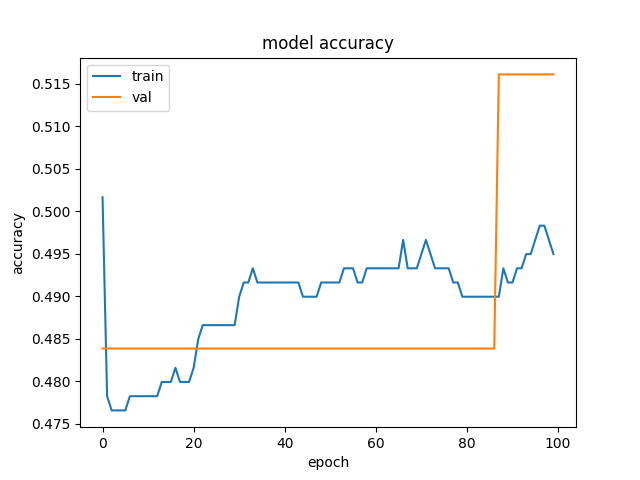
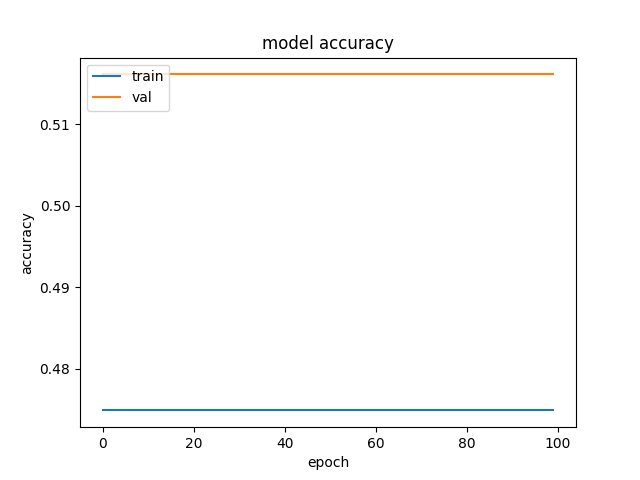
fix merge

diff --git a/src/codeCorrection/Model.py b/src/codeCorrection/Model.py
@@ -78,6 +78,18 @@ def add_mlp_layers2(model, encoder):
     ])
 
 
+def add_mlp_layers3(model, encoder):
+    model = tf.keras.Sequential([
+        encoder,
+        tf.keras.layers.Embedding(len(encoder.get_vocabulary()), 64, mask_zero=True),
+        tf.keras.layers.Bidirectional(tf.keras.layers.LSTM(64, return_sequences=True)),
+        tf.keras.layers.Bidirectional(tf.keras.layers.LSTM(32)),
+        tf.keras.layers.Dense(64, activation='relu'),
+        tf.keras.layers.Dropout(0.5),
+        tf.keras.layers.Dense(1)
+    ])
+
+
 def add_lstm_layers(model):
     for _ in range(5):
         model.add(tf.keras.layers.LSTM(units=2048, return_sequences=True))
@@ -91,7 +103,7 @@ def train_model(m: Model, dataset, dataset_test):
         dataset,
         validation_data=dataset_test,
         epochs=epch,
-        batch_size=32,
+        batch_size=batch_size,
         callbacks=[
             tf.keras.callbacks.TensorBoard(log_dir='./logs', histogram_freq=1, write_graph=True, write_images=True)
         ]

diff --git a/src/codeCorrection/main.py b/src/codeCorrection/main.py
@@ -55,9 +55,14 @@ if __name__ == '__main__':
         print(valu[i])
 
     #model = create_base_model(linear_mod)
-    model = create_base_model(add_mlp_layers2, encoder)
+    # model = create_base_model(add_mlp_layers2, encoder)
+    model = create_base_model(add_mlp_layers3, encoder)
+    # model = create_base_model(classic_layers)
     # model = create_base_model(add_mlp_layers)
     # model = create_base_model(add_lstm_layers)
     # forest = create_base_model(forest_mod)
+    model.compile(loss=tf.keras.losses.BinaryCrossentropy(from_logits=True),
+                  optimizer=tf.keras.optimizers.Adam(1e-4),
+                  metrics=['accuracy'])
     logs = train_model(model, train, test)
-    save_plot_accuracy(logs, "mlp2Adam")
+    save_plot_accuracy(logs, "mlp3")

diff --git a/src/codeCorrection/ModelParam.py b/src/codeCorrection/ModelParam.py
@@ -1,4 +1,3 @@
-epch = 100
-ref_lr = 0.03
-ref_batch_size = 16
-batch_size = 2
+epch = 300
+ref_lr = 0.000001
+batch_size = 64
